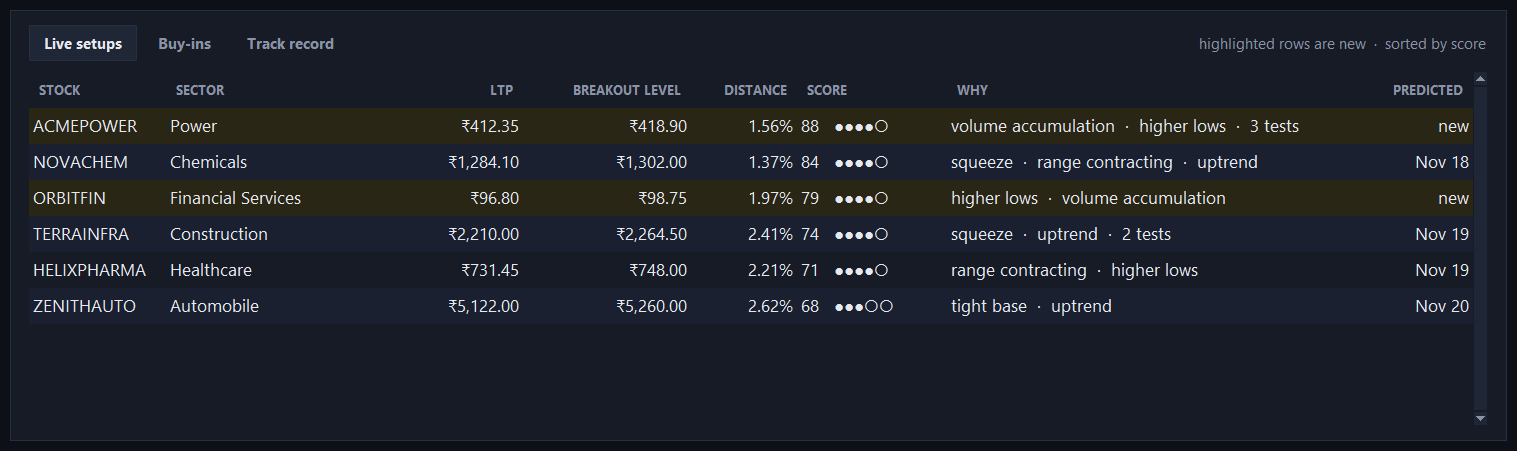
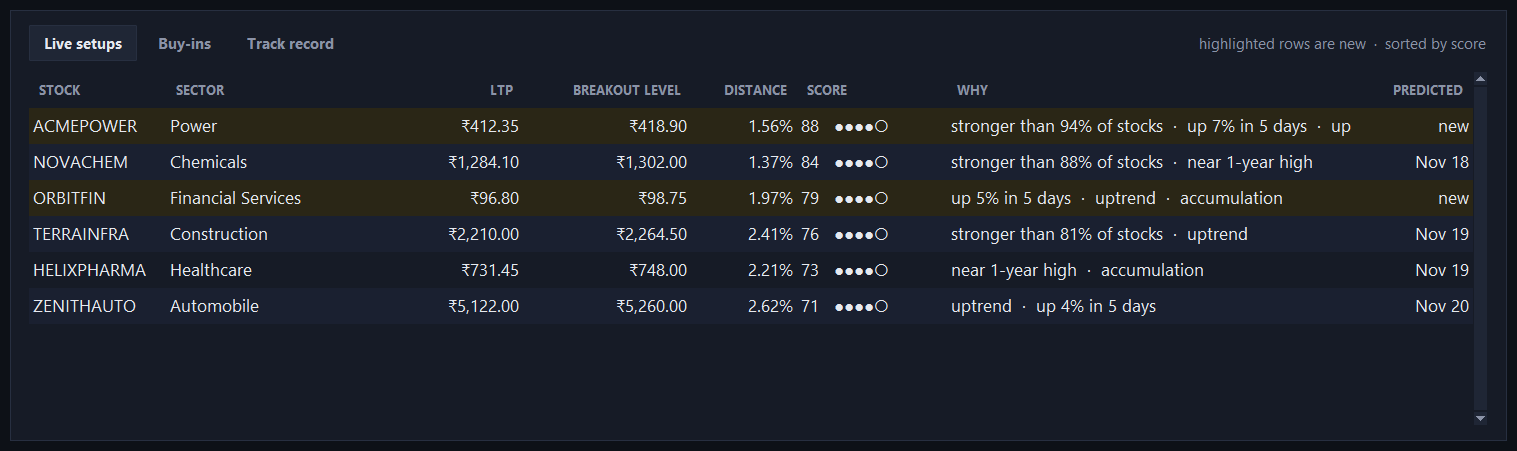
Rebuild the setup score (v2): relative strength and momentum
A year of backtesting on the cached Nifty 500 candles showed that the
old score's Bollinger squeeze and resistance-test points did worse than
nothing. Relative strength and recent momentum helped in both halves of
the year.

Score v2 is relative strength 25, proximity 20, 5-day momentum 20,
trend 15, near 1-year high 10, accumulation 10. Relative strength ranks
the stock's 60-session return against every stock on the same day. The
live scan appends today's bar from the quote, so live and backtest
scores agree exactly.

Over the past year, setups beat the baseline by +9.4 points (was +1.0)
and buy-ins average -0.25% per trade (was -0.53%). The default min
score is 70, set from the first half of the year only. Saved settings
from the old score reset min_score once (SCORE_VERSION), and new
predictions are stamped with the score version.

diff --git a/breakout_predictor_app.py b/breakout_predictor_app.py
@@ -69,9 +69,12 @@ HORIZON = 7                   # prediction window in sessions
 QUOTE_BATCH = 200             # Upstox allows up to 500 keys per quote call
 HISTORY_REQ_PER_SEC = 6       # stays under Upstox's 500 requests/minute limit
 
+SCORE_VERSION = 2  # bump when the score changes meaning; resets min_score to the new default
+
 DEFAULT_CONFIG = {
+    "score_version": SCORE_VERSION,
     "close_to_tray": True,
-    "min_score": 65,
+    "min_score": 70,
     "max_dist_pct": 3.0,
     "min_price": 20.0,
     "nifty_csv_path": "",
@@ -133,7 +136,14 @@ def write_json(path, data):
 
 def load_config():
     cfg = dict(DEFAULT_CONFIG)
-    cfg.update(read_json(APP_DIR / "config.json", {}) or {})
+    saved = read_json(APP_DIR / "config.json", {}) or {}
+    cfg.update(saved)
+    if saved and saved.get("score_version") != SCORE_VERSION:
+        # The score was rebuilt, so an old threshold means something else now: start from the new default.
+        cfg["min_score"] = DEFAULT_CONFIG["min_score"]
+        cfg["score_version"] = SCORE_VERSION
+        save_config(cfg)
+        cfg["_score_migrated"] = True
     return cfg
 
 
@@ -180,47 +190,69 @@ def compute_series(stock):
     tr = [h[0] - l[0]] + [max(h[i] - l[i], abs(h[i] - c[i - 1]), abs(l[i] - c[i - 1])) for i in range(1, len(c))]
     sma20, std20 = rolling_mean(c, 20), rolling_std(c, 20)
     bw = [None if m is None or not m else 4 * s / m for m, s in zip(sma20, std20)]
-    return {**stock, "sma20": sma20, "sma50": rolling_mean(c, 50), "bw": bw,
+    return {**stock, "sma20": sma20, "sma50": rolling_mean(c, 50), "sma100": rolling_mean(c, 100), "bw": bw,
             "atr5": rolling_mean(tr, 5), "atr20": rolling_mean(tr, 20)}
 
 
-def setup_components(S, t):
-    """Price-independent part of the score (max 80), using bars up to and including index t."""
-    h, l, c, v = S["h"], S["l"], S["c"], S["v"]
+RS_LOOKBACK = 60  # sessions for relative strength
+
+
+def ret60(S, t):
+    """60-session return at bar t, or None without enough history."""
+    c = S["c"]
+    return c[t] / c[t - RS_LOOKBACK] - 1 if t >= RS_LOOKBACK and c[t - RS_LOOKBACK] else None
+
+
+def rs_percentile(sorted_returns, r):
+    """Where a 60-session return ranks among every stock's on the same day (0 = weakest, 1 = strongest)."""
+    if r is None or not sorted_returns:
+        return None
+    return bisect.bisect_left(sorted_returns, r) / len(sorted_returns)
+
+
+def setup_components(S, t, rs):
+    """Score parts that don't depend on the distance to R (max 80), using bars up to and including index t.
+
+    Score v2 (see README): relative strength 25, 5-day momentum 20, trend 15, near 1-year high 10,
+    accumulation 10, plus proximity 20 from proximity(). rs = rs_percentile() of this stock's 60-session return
+    against all stocks on the same day (None counts as 0)."""
+    h, c, v = S["h"], S["c"], S["v"]
     R = max(h[t - 19:t + 1])
-
-    atr_ratio = S["atr5"][t] / S["atr20"][t] if S["atr20"][t] else 1.0
-    contraction = clamp((1.0 - atr_ratio) / 0.4)
-
-    window = [x for x in S["bw"][t - 39:t + 1] if x is not None]
-    squeeze = 1.0 - sum(1 for x in window if x < S["bw"][t]) / len(window) if window and S["bw"][t] else 0.0
-
-    rising = 1.0 if min(l[t - 4:t + 1]) > min(l[t - 14:t - 4]) else 0.0
-
+    rs = rs or 0.0
+    mom5 = (c[t] / c[t - 5] - 1) * 100 if c[t - 5] else 0.0
+    sma50, sma100 = S["sma50"][t], S["sma100"][t]
+    trend = 0.5 * bool(sma50 and c[t] > sma50 and S["sma20"][t] > sma50) + 0.5 * bool(sma100 and c[t] > sma100)
+    near_high = c[t] / max(h[max(0, t - 249):t + 1])
     up = sum(v[i] for i in range(t - 14, t + 1) if c[i] > c[i - 1])
     dn = sum(v[i] for i in range(t - 14, t + 1) if c[i] < c[i - 1])
-    accum = clamp((up / max(dn, 1) - 0.8) / 0.8)
+    accum = clamp((up / max(dn, 1) - 0.8) / 1.6)
 
-    trend = 0.5 * (c[t] > S["sma50"][t]) + 0.5 * (S["sma20"][t] > S["sma50"][t])
-
-    tests = sum(1 for i in range(t - 19, t + 1) if h[i] >= R * 0.985)
-    tests_score = clamp((tests - 1) / 3)
-
-    base = 15 * contraction + 15 * squeeze + 15 * rising + 15 * accum + 10 * trend + 10 * tests_score
+    base = (25 * rs + 20 * clamp(mom5 / 8) + 15 * trend + 10 * clamp((near_high - 0.85) / 0.15) + 10 * accum)
     reasons = []
-    if contraction >= 0.5:
-        reasons.append("range contracting")
-    if squeeze >= 0.75:
-        reasons.append("BB squeeze")
-    if rising:
-        reasons.append("higher lows")
-    if accum >= 0.5:
-        reasons.append("accumulation")
+    if rs >= 0.8:
+        reasons.append(f"stronger than {rs * 100:.0f}% of stocks")
+    if mom5 >= 4:
+        reasons.append(f"up {mom5:.0f}% in 5 days")
     if trend == 1:
         reasons.append("uptrend")
-    if tests >= 3:
-        reasons.append(f"R tested {tests}x")
+    if near_high >= 0.97:
+        reasons.append("near 1-year high")
+    if accum >= 0.5:
+        reasons.append("accumulation")
     return {"R": R, "base": base, "reasons": reasons}
+
+
+def returns_by_date(series):
+    """{date: sorted 60-session returns of every stock that day}, for rs_percentile in the backtest."""
+    out = {}
+    for S in series.values():
+        for t in range(RS_LOOKBACK, len(S["c"])):
+            r = ret60(S, t)
+            if r is not None:
+                out.setdefault(S["d"][t], []).append(r)
+    for v in out.values():
+        v.sort()
+    return out
 
 
 def proximity(R, price, max_dist):
@@ -315,20 +347,19 @@ def backtest(history, cfg, stop_event=None, weekly=None):
     split = {"above": [0, 0], "below": [0, 0], "no data": [0, 0]}
     target_pct = float(cfg.get("target_pct") or 10)
     trades, baseline_trades = [], []
-    for key_, stock in history.items():
+    all_series = {k: compute_series(st_) for k, st_ in history.items() if len(st_["c"]) >= MIN_BARS + HORIZON + 1}
+    rs_by_date = returns_by_date(all_series)
+    for key_, S in all_series.items():
         if stop_event and stop_event.is_set():
             break
-        n = len(stock["c"])
-        if n < MIN_BARS + HORIZON + 1:
-            continue
-        S = compute_series(stock)
+        n = len(S["c"])
         c = S["c"]
         w = weekly.get(key_) if weekly else None
         seen_breakouts = set()
-        for t in range(MIN_BARS - 1, n - HORIZON):
+        for t in range(max(MIN_BARS - 1, RS_LOOKBACK), n - HORIZON):
             if c[t] < min_price:
                 continue
-            comp = setup_components(S, t)
+            comp = setup_components(S, t, rs_percentile(rs_by_date.get(S["d"][t]), ret60(S, t)))
             prox = proximity(comp["R"], c[t], max_dist)
             if not prox:
                 continue
@@ -1271,17 +1302,17 @@ class Engine(threading.Thread):
         self.key_by_symbol = {s["symbol"]: k for k, s in self.history.items()}
         self.events.put(("stats", prediction_stats(preds)))
 
+        # Scores are computed each scan from the completed bars plus today's live bar (see scan_once).
         self.setups = {}
         for key, stock in self.history.items():
-            S = compute_series(stock)
-            t = len(S["c"]) - 1
-            comp = setup_components(S, t)
-            comp.update(symbol=stock["symbol"], industry=stock["industry"], prev_close=S["c"][t])
+            if len(stock["c"]) < max(MIN_BARS, RS_LOOKBACK + 1):
+                continue
+            info = {"symbol": stock["symbol"], "industry": stock["industry"], "stock": stock}
             if self.weekly is not None:
-                comp["wma200"] = wma200_at(self.weekly.get(key), today_str())
-            self.setups[key] = comp
+                info["wma200"] = wma200_at(self.weekly.get(key), today_str())
+            self.setups[key] = info
         self.prepared_for = today_str()
-        self.log(f"Setups computed for {len(self.setups)} stocks from completed sessions.")
+        self.log(f"Ready to score {len(self.setups)} stocks.")
 
     def loop(self):
         self.log("Live predictor started.")
@@ -1326,6 +1357,26 @@ class Engine(threading.Thread):
         self.events.put(("prices", prices))
         thr, max_dist, min_price = float(self.cfg["min_score"]), float(self.cfg["max_dist_pct"]), float(self.cfg["min_price"])
 
+        # Today's bar from the quote (replacing a stored bar for today, if any), so the live score is computed
+        # exactly like the backtest's: on the session's bar, with relative strength ranked across all stocks.
+        live_bars, live_ret = {}, []
+        for key, s in self.setups.items():
+            q = quotes.get(key)
+            if not q or not q.get("last_price"):
+                continue
+            stock, ltp = s["stock"], float(q["last_price"])
+            ohlc = q.get("ohlc") or {}
+            same_day = stock["d"][-1] == (trade_date(q) or today_str(t))
+            keep = len(stock["c"]) - (1 if same_day else 0)
+            bar = {"d": trade_date(q) or today_str(t), "o": float(ohlc.get("open") or ltp),
+                   "h": max(float(ohlc.get("high") or ltp), ltp), "l": min(float(ohlc.get("low") or ltp), ltp),
+                   "c": ltp, "v": float(q.get("volume") or 0)}
+            live_bars[key] = (keep, bar)
+            base_close = stock["c"][keep - RS_LOOKBACK] if keep >= RS_LOOKBACK else None
+            if base_close:
+                live_ret.append(ltp / base_close - 1)
+        live_ret.sort()
+
         rows, stale = [], 0
         for key, s in self.setups.items():
             q = quotes.get(key)
@@ -1339,11 +1390,19 @@ class Engine(threading.Thread):
             if td and td != today_str(t):
                 stale += 1
             ltp = float(q["last_price"])
-            if ltp < min_price:
+            if ltp < min_price or key not in live_bars:
                 continue
-            prox = proximity(s["R"], ltp, max_dist)
+            keep, bar = live_bars[key]
+            stock = s["stock"]
+            if max(stock["h"][keep - 19:keep] + [bar["h"]]) > ltp * (1 + max_dist / 100):
+                continue  # too far below the 20-day high: skip the full scoring
+            S = compute_series({**stock, **{f: stock[f][:keep] + [bar[f]] for f in ("d", "o", "h", "l", "c", "v")}})
+            tt = len(S["c"]) - 1
+            comp = setup_components(S, tt, rs_percentile(live_ret, ret60(S, tt)))
+            prox = proximity(comp["R"], ltp, max_dist)
             if not prox:
                 continue
+            s = {**s, **comp}
             reasons = s["reasons"]
             if self.weekly is not None:
                 if not s.get("wma200") or ltp <= s["wma200"]:
@@ -1373,7 +1432,7 @@ class Engine(threading.Thread):
 
         for r in fresh:
             preds.append({"date": today_str(t), "time": f"{t:%H:%M}", "symbol": r["symbol"], "R": r["R"],
-                          "price": r["ltp"], "score": round(r["score"], 1), "status": "open"})
+                          "price": r["ltp"], "score": round(r["score"], 1), "status": "open", "v": SCORE_VERSION})
         save_predictions(preds)
         stats = prediction_stats(preds)
         self.events.put(("stats", stats))
@@ -1710,6 +1769,9 @@ class App(tk.Tk):
         self._set_pill("idle")
         self._update_account_ui()
         self.after(200, self._drain_events)
+        if self.cfg.pop("_score_migrated", False):
+            self._log(f"The setup score was rebuilt (v{SCORE_VERSION}): relative strength and momentum replace squeeze "
+                      f"and resistance tests. Min setup score reset to {DEFAULT_CONFIG['min_score']:g}.")
         if ACCOUNT.configured and (APP_DIR / "session.json").exists():
             self.sync_label.configure(text="Signing in…")
             def resume():
@@ -2470,7 +2532,7 @@ class App(tk.Tk):
               "Connection. It stays in memory only and is never saved or uploaded."),
         ("img", "connection.png"),
         ("h2", "2.  Set your rules"),
-        ("p", "Min setup score: how strict the predictions are (65 is a good start). Max % below 20D high: how close "
+        ("p", "Min setup score: how strict the predictions are (70 keeps about the top quarter). Max % below 20D high: how close "
               "to the breakout level a stock must be. Min price: skips penny stocks. Buy-in profit target %: the "
               "target for buy-ins (10% by default). Tick the 200-week MA box to keep only long-term uptrends."),
         ("img", "rules.png"),
@@ -2790,6 +2852,10 @@ class App(tk.Tk):
         win.grab_set()
 
     def _apply_settings(self, remote):
+        remote = dict(remote)
+        if remote.get("score_version") != SCORE_VERSION:  # saved under the old score: its threshold doesn't apply
+            remote.pop("min_score", None)
+            remote.pop("score_version", None)
         for k, v in remote.items():
             if k in self.vars:
                 self.vars[k].set(str(v))

diff --git a/tools/make_screenshots.py b/tools/make_screenshots.py
@@ -98,12 +98,12 @@ def box(win, *widgets, pad=10):
 
 # ------------------------------------------------------------------ demo data (made-up companies)
 LIVE = [
-    ("ACMEPOWER", "Power", 412.35, 418.90, 1.56, 88, ["volume accumulation", "higher lows", "3 tests"]),
-    ("NOVACHEM", "Chemicals", 1284.10, 1302.00, 1.37, 84, ["squeeze", "range contracting", "uptrend"]),
-    ("ORBITFIN", "Financial Services", 96.80, 98.75, 1.97, 79, ["higher lows", "volume accumulation"]),
-    ("TERRAINFRA", "Construction", 2210.00, 2264.50, 2.41, 74, ["squeeze", "uptrend", "2 tests"]),
-    ("HELIXPHARMA", "Healthcare", 731.45, 748.00, 2.21, 71, ["range contracting", "higher lows"]),
-    ("ZENITHAUTO", "Automobile", 5122.00, 5260.00, 2.62, 68, ["tight base", "uptrend"]),
+    ("ACMEPOWER", "Power", 412.35, 418.90, 1.56, 88, ["stronger than 94% of stocks", "up 7% in 5 days", "uptrend"]),
+    ("NOVACHEM", "Chemicals", 1284.10, 1302.00, 1.37, 84, ["stronger than 88% of stocks", "near 1-year high"]),
+    ("ORBITFIN", "Financial Services", 96.80, 98.75, 1.97, 79, ["up 5% in 5 days", "uptrend", "accumulation"]),
+    ("TERRAINFRA", "Construction", 2210.00, 2264.50, 2.41, 76, ["stronger than 81% of stocks", "uptrend"]),
+    ("HELIXPHARMA", "Healthcare", 731.45, 748.00, 2.21, 73, ["near 1-year high", "accumulation"]),
+    ("ZENITHAUTO", "Automobile", 5122.00, 5260.00, 2.62, 71, ["uptrend", "up 4% in 5 days"]),
 ]
 TRADES = [
     {"id": "t1", "symbol": "QUARTZTECH", "breakout_date": "2026-10-20", "R": 1872.0, "retest_date": "2026-10-23",

diff --git a/README.md b/README.md
@@ -22,7 +22,7 @@ Upstox developer console → **My Apps → Analytics token** (read-only, valid f
 
 ### 2. Set your rules
 
-- **Min setup score**: how strict predictions are (65 is a good start).
+- **Min setup score**: how strict predictions are (70 keeps about the top quarter of candidates).
 - **Max % below 20D high**: how close to the breakout level a stock must be.
 - **Min price**: skips penny stocks.
 - **Buy-in profit target %**: target for buy-ins (10% by default).
@@ -165,13 +165,18 @@ into above / below the 200-week MA, so you can check whether the filter helps be
 
 | Points | Signal | Meaning |
 | --- | --- | --- |
+| 25 | Relative strength | The stock's 60-session return, ranked against every Nifty 500 stock that day |
 | 20 | Proximity | Price is close to (but still below) the 20-day high |
-| 15 | Contraction | 5-day ATR shrinking vs 20-day ATR |
-| 15 | Squeeze | Bollinger bandwidth near its 40-day low |
-| 15 | Higher lows | Recent lows rising into resistance |
-| 15 | Accumulation | More volume on up days than down days |
-| 10 | Trend | Close above 50-day SMA, 20-day SMA above 50-day SMA |
-| 10 | Resistance tests | The level has been touched several times |
+| 20 | Momentum | 5-day gain (full points at +8%) |
+| 15 | Trend | Above its 50-day average (with the 20-day above the 50-day) and above its 100-day average |
+| 10 | Near 1-year high | Close within 15% of the highest high of the past year (full points at the high) |
+| 10 | Accumulation | More volume on up days than down days over 15 sessions |
+
+This is score version 2 (November 2026). A year of backtesting showed that the old score's Bollinger squeeze and
+resistance-test points did worse than nothing, while relative strength and recent momentum helped in both halves of
+the year. The new score ranks breakouts much better: its top fifth broke out 16–24 points more often than its bottom
+fifth. It hasn't yet been shown to make the buy-ins profitable. Predictions logged from now on carry the score version,
+so the Track record will show how it does on fresh data. Updating resets **Min setup score** once to the new default.
 
 **Run backtest** replays these exact rules over the past year and compares them with a baseline (every stock
 near its 20-day high). Judge the threshold by the *lift* over that baseline, not the raw hit rate. These are

diff --git a/CLAUDE.md b/CLAUDE.md
@@ -51,8 +51,11 @@ hours), `dry` (one scan) or `backtest`. It never touches Tk. It pushes tuples on
 progress, prices, notify, backtest, error, auth_error, stopped, cloud, tray. The `CloudAccount` push thread and
 `Tray` report through the same queue. Any new background work should do the same.
 
-**One rule set, three users.** `setup_components` / `compute_series` produce the score and the breakout level R (the
-20-day high). They are used by:
+**One rule set, three users.** `setup_components(S, t, rs)` / `compute_series` produce the score (v2, see
+`SCORE_VERSION`) and the breakout level R (the 20-day high). `rs` is `rs_percentile` of the stock's 60-session return
+against every stock on the same day: `returns_by_date` in the backtest, and the live quotes in `scan_once`, which
+appends today's bar from the quote before scoring. Changing the score's meaning means bumping `SCORE_VERSION`: saved
+`min_score` resets once and old synced settings are ignored. Research scripts that justified v2 aren't in the repo. They are used by:
 - the live scan (with quotes as today's bar)
 - the walk-forward `backtest()` (writes `backtest.json`, compared against a baseline of every stock near its high)
 - prediction logging
